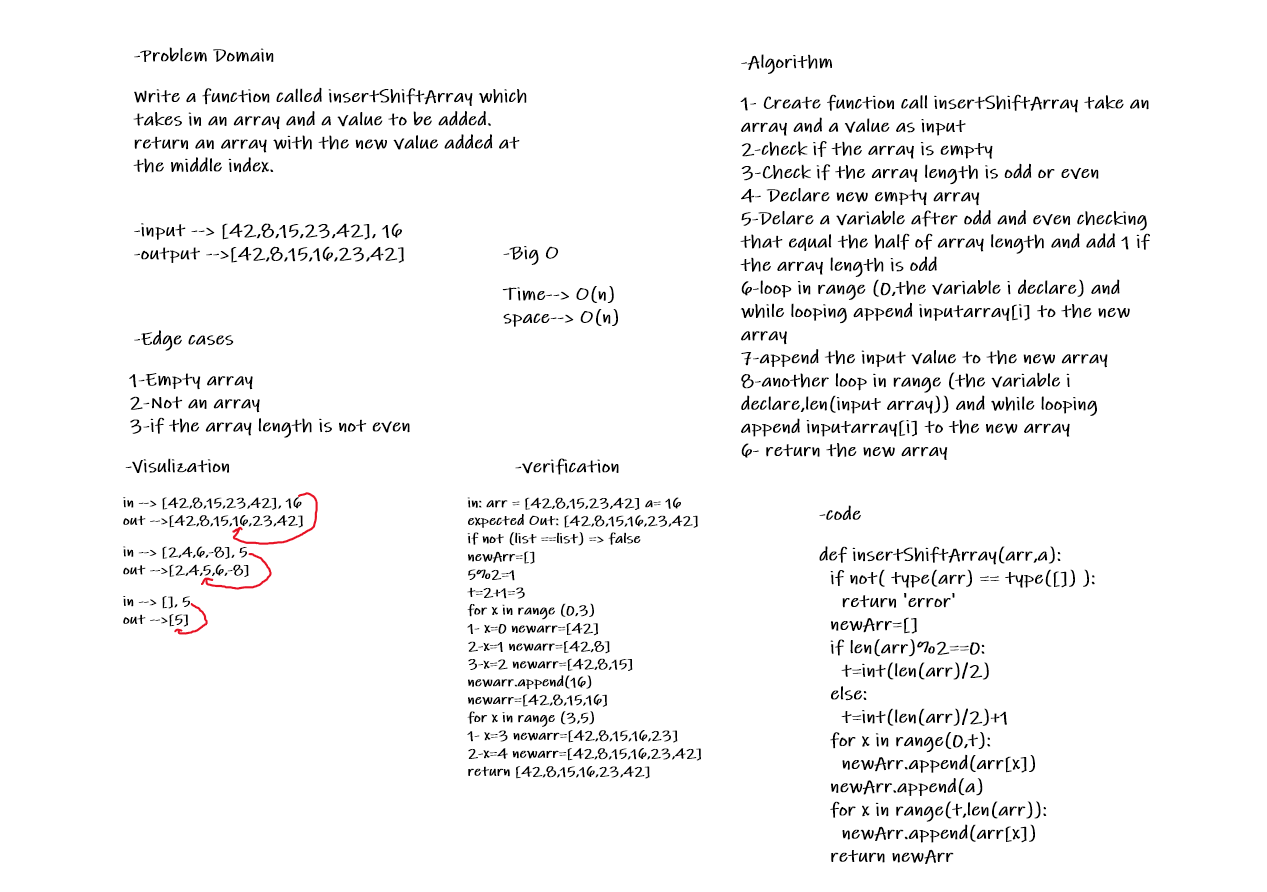
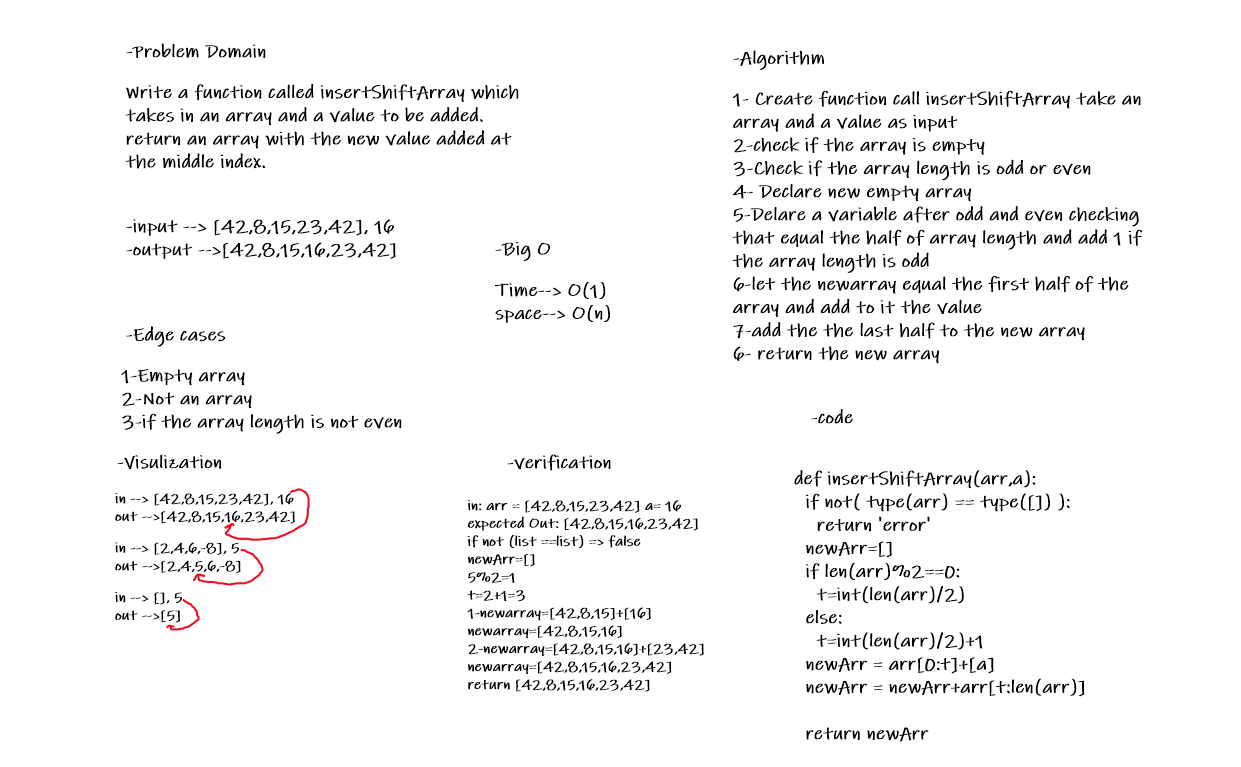
finish the code challenge

diff --git a/array_shift/test.py b/array_shift/test.py
@@ -11,11 +11,9 @@ def insertShiftArray(arr,a):
     t=int(len(arr)/2)
   else:
     t=int(len(arr)/2)+1
-  for x in range(0,t):
-    newArr.append(arr[x])
-  newArr.append(a)
-  for x in range(t,len(arr)):
-    newArr.append(arr[x])
+  newArr = arr[0:t]+[a]
+  newArr = newArr+arr[t:len(arr)]
+
   return newArr
   
 

diff --git a/array_shift/README.md b/array_shift/README.md
@@ -9,11 +9,10 @@ Write a function called insertShiftArray which takes in an array and a value to 
 
 ## Approach & Efficiency
 
-Create function call insertShiftArray take an array(arr) and a value(a) as input, at first the function the array is an array, declare new empty array, check if the array length is odd or even and declare new varible(t) equal the half of the array lengeth and add to it 1 if the lengeth of array is odd, loop in range (0,t) and while looping append to the new array arr[i], append to the new array a, another loop in range (t,len(arr)) and while looping append to the new array arr[i], at the end return the newarray
+Create function call insertShiftArray take an array(arr) and a value(a) as input, at first the function the array is an array, declare new empty array, check if the array length is odd or even and declare new varible(t) equal the half of the array lengeth and add to it 1 if the lengeth of array is odd,let the newarray equal the first half of the array and add to it the value,add the the last half to the new array, at the end return the newarray
 
 
-Big O Time--> O(n)
-
+Big O Time--> O(1)
 Big O space--> O(n)
 
 
